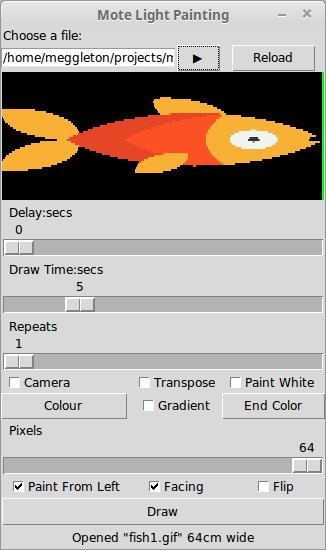
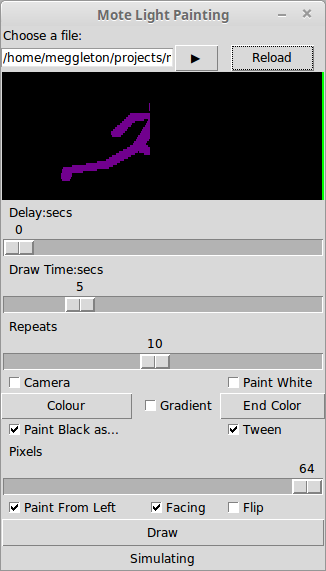
Tween between colours over frames

diff --git a/mote_light_painting.py b/mote_light_painting.py
@@ -55,6 +55,7 @@ class MyApplication:
         self.currentColumn = 0
         self.simulate = False
         self.animate = False
+        self.completeRepeats = 0
         self.motePixelInCm = 1
         self.mode = MODE_IMAGE
         self.color = (255, 0, 0)
@@ -68,7 +69,8 @@ class MyApplication:
         self.bReverseImage = False
         self.bGradient = False
         self.bPaintWhite = False
-        self.bTranspose = False
+        self.bInvert = False
+        self.bTween = False
         
         self.iDuration = 5
         self.iRepeats = 1
@@ -201,7 +203,7 @@ class MyApplication:
         color = askcolor(self.color)
         if(color[0] == None):
             return
-        if self.bTranspose == False:
+        if self.bInvert == False:
             self.mode = MODE_COLOR
         self.color = color[0]
         self.drawPreview()
@@ -235,7 +237,10 @@ class MyApplication:
         if not self.simulate :
             if (self.mode == MODE_COLOR):
                 try:
-                    r, g, b = self.getColColour(iImageX)
+                    if self.bTween:
+                        r, g, b = self.getFrameColour()
+                    else:
+                        r, g, b = self.getColColour(iImageX)
                     colour = (r, g, b)
                     for py in range(0, self.iPixels):
                         channel, pixel= self.yToStick[py]
@@ -256,9 +261,12 @@ class MyApplication:
                         r, g, b = self.rgb_im.getpixel((iImageX, py))
                         colour = (r, g, b)
                         channel, pixel= self.yToStick[py]
-                        if self.bTranspose:
+                        if self.bInvert:
                             if colour == (0, 0, 0):
-                                r, g, b = self.getColColour(iImageX)
+                                if self.bTween:
+                                    r, g, b = self.getFrameColour()
+                                else:
+                                    r, g, b = self.getColColour(iImageX)
                                 self.mote.set_pixel(channel, pixel, r, g, b)
                             else:
                                 self.mote.set_pixel(channel, pixel, 0, 0, 0)
@@ -283,7 +291,8 @@ class MyApplication:
         self.builder.tkvariables.__getitem__('iDuration').set(self.iDuration)
         self.builder.tkvariables.__getitem__('iRepeats').set(self.iRepeats)
         self.builder.tkvariables.__getitem__('bControlCamera').set(self.bControlCamera)
-        self.builder.tkvariables.__getitem__('bTranspose').set(self.bTranspose)
+        self.builder.tkvariables.__getitem__('bInvert').set(self.bInvert)
+        self.builder.tkvariables.__getitem__('bTween').set(self.bTween)
         self.scaDelay.set(self.iDelay)
         
 
@@ -297,7 +306,8 @@ class MyApplication:
         self.iDuration = self.builder.tkvariables.__getitem__('iDuration').get()
         self.iRepeats = self.builder.tkvariables.__getitem__('iRepeats').get()
         self.bControlCamera = self.builder.tkvariables.__getitem__('bControlCamera').get()
-        self.bTranspose = self.builder.tkvariables.__getitem__('bTranspose').get()
+        self.bInvert = self.builder.tkvariables.__getitem__('bInvert').get()
+        self.bTween = self.builder.tkvariables.__getitem__('bTween').get()
         self.iDelay = self.scaDelay.get()
         
 
@@ -306,7 +316,11 @@ class MyApplication:
         iPreviewX = self.getPreviewX(x)
         iPreviewXend = self.getPreviewX(x+1)
         if (self.mode == MODE_COLOR):
-            color = str(webcolors.rgb_to_hex(self.getColColour(iImageX)))
+            if self.bTween:
+                colour = self.getFrameColour()
+            else:
+                colour = self.getColColour(iImageX)
+            color = str(webcolors.rgb_to_hex(colour))
             self.canPreview.create_rectangle( iPreviewX, 0, iPreviewXend, (len(self.yToStick) * self.motePixelInSceenPixels), width=0, fill=color)
         if (self.mode == MODE_IMAGE):
             r, g, b = self.rgb_im.getpixel((iImageX, 1))
@@ -320,29 +334,44 @@ class MyApplication:
             g = int(round(self.color[1] + float(self.colorend[1] - self.color[1])*(float(px) / float(self.graphWidth))))
             b = int(round(self.color[2] + float(self.colorend[2] - self.color[2])*(float(px) / float(self.graphWidth))))
             return (r,g,b)
-
         return self.color
-
-
-
+        
+    def getFrameColour(self):
+        if(self.iRepeats > 1):
+            j = self.completeRepeats
+            r = int(round(self.color[0] + float(self.colorend[0] - self.color[0])*(float(j) / float(self.iRepeats-1))))
+            g = int(round(self.color[1] + float(self.colorend[1] - self.color[1])*(float(j) / float(self.iRepeats-1))))
+            b = int(round(self.color[2] + float(self.colorend[2] - self.color[2])*(float(j) / float(self.iRepeats-1))))
+            return (r,g,b)
+        return self.color
+        
+      
     def drawColumn(self, x):
         iImageX = self.getImageX(x)
         iPreviewX = self.getPreviewX(x)
         iPreviewXend = self.getPreviewX(x+1)
 
         if (self.mode == MODE_COLOR):
-            colour = self.getColColour(iImageX)
-            if colour != (0, 0, 0) and (self.bPaintWhite or colour != (255, 255, 255)):
+            if self.bTween:
+                colour = self.getFrameColour()
                 color = str(webcolors.rgb_to_hex(colour))
                 self.canPreview.create_rectangle( iPreviewX, 0, iPreviewXend, (self.iPixels * self.motePixelInSceenPixels), width=0, fill=color)
+            else:
+                colour = self.getColColour(iImageX)
+                if colour != (0, 0, 0) and (self.bPaintWhite or colour != (255, 255, 255)):
+                    color = str(webcolors.rgb_to_hex(colour))
+                    self.canPreview.create_rectangle( iPreviewX, 0, iPreviewXend, (self.iPixels * self.motePixelInSceenPixels), width=0, fill=color)
 
         if (self.mode == MODE_IMAGE):
             #for py in range(0, len(self.yToStick)):
             for py in range(0, self.iPixels):
                 colour = self.rgb_im.getpixel((iImageX, py))
-                if self.bTranspose :
+                if self.bInvert :
                     if colour == (0, 0, 0):
-                      colour2 = self.getColColour(iImageX)
+                      if self.bTween:
+                          colour2 = self.getFrameColour()
+                      else:
+                          colour2 = self.getColColour(iImageX)
                       color2 = str(webcolors.rgb_to_hex(colour2))
                       self.canPreview.create_rectangle( iPreviewX, (py * self.motePixelInSceenPixels), iPreviewXend, (py * self.motePixelInSceenPixels) + self.motePixelInSceenPixels, width=0, fill=color2)
                 else: 
@@ -392,12 +421,12 @@ class MyApplication:
                 if (self.im.tell() > 0):
                     self.im = Image.open(self.filename)
                     self.rgb_im = self.im.convert('RGB').resize((self.timeSlices, len(self.yToStick)))
-                    print("Could not loop - Reloaded")
-        
-                
+                    print("Could not loop - Reloaded")        
 
         if(self.completeRepeats < self.iRepeats):
             self.singleShow()
+        else:
+            self.completeRepeats = 0 
 
     def startPhoto(self):
         if self.bControlCamera:

diff --git a/README.md b/README.md
@@ -59,13 +59,15 @@ sudo ./mote_light_painting.py
 * A message displays how wide the image should be (in cm)
 * The Graph shows your image as 64 pixels (the height of a full set of motes) over the draw time (so it will usually look stretched, don't worry its a graph) 
 * We often end up needing to ignore pure white pixels, if you need them painting check the 'Paint White ?' box.
-* The "Transpose" takes black and paints it as the current "Colour" lets you paint silhouettes as light
+* "Colour" lets you choose a single colour to paint with.
+* "End Colour" and the tick box allow you to set a changing colour pattern
+* The "Paint Black as..." takes black and paints it as the current "Colour" lets you paint silhouettes as light
+* The "Tween" will vary the colour painted from "Colour" to "End Colour" over the Repeats.
 * Ticking 'Control Camera' will try to capture a photo from you USB / PTP camera via gphoto2 (there is no error checking here at the mo, so if it freezes start again).
 * "Delay Time" is self explanatory.
 * "Draw Time" is how long it will take for your image to be drawn and will depend on the exposure time you are using.
 * "Repeats" set how many times the Delay/Draw cycle takes place. This should allow for nice light painted / stop motion effects.
-* "Colour" lets you choose a single colour to paint with.
-* "End Colour" and the tick box allow you to set a changing colour pattern
+
 * The "Pixels" slider lets you change the height of your light brush.
 * Orientation controls
   * "Paint From Left" - The painting starts on the painters left (this should not effect the orientation of the painted image) 
